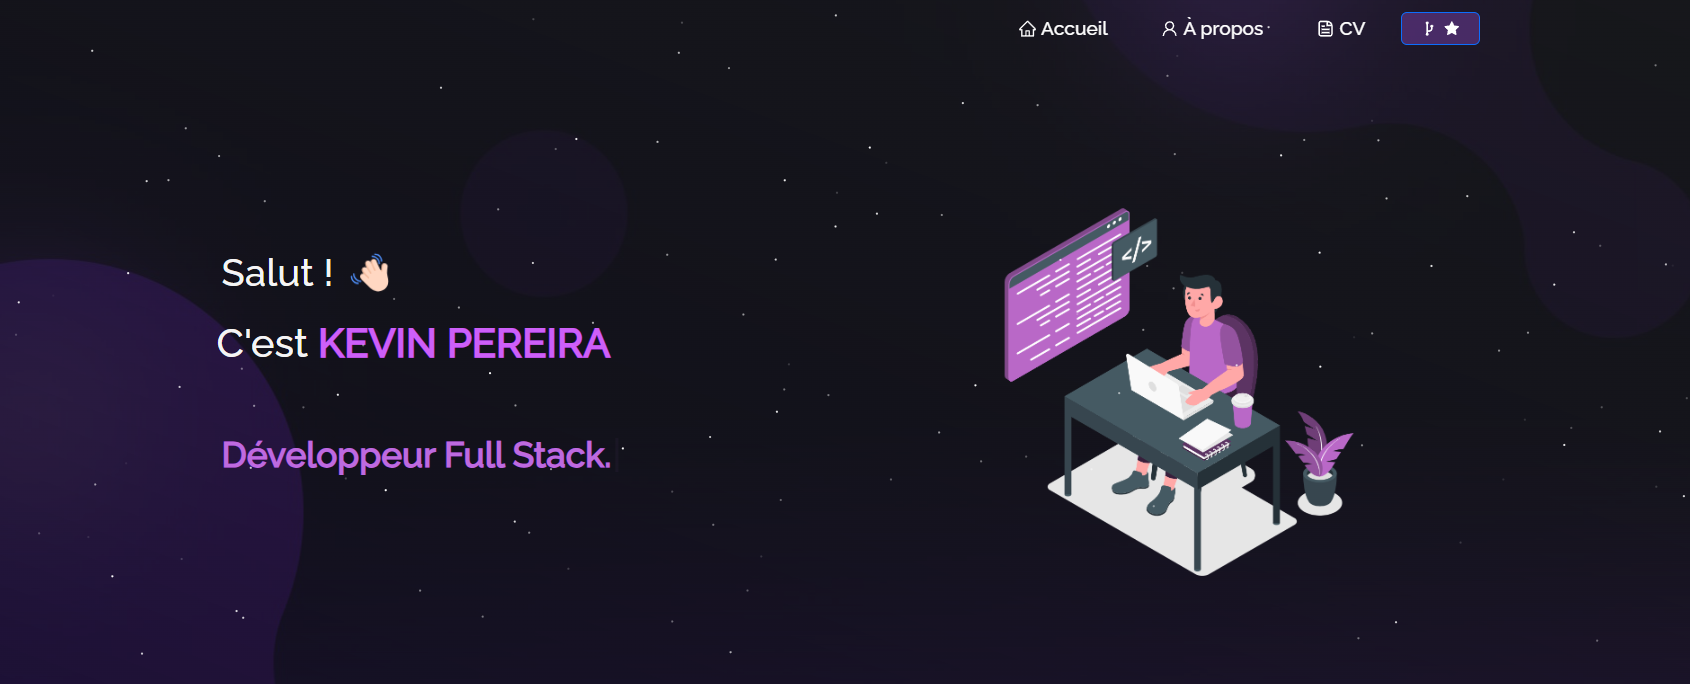
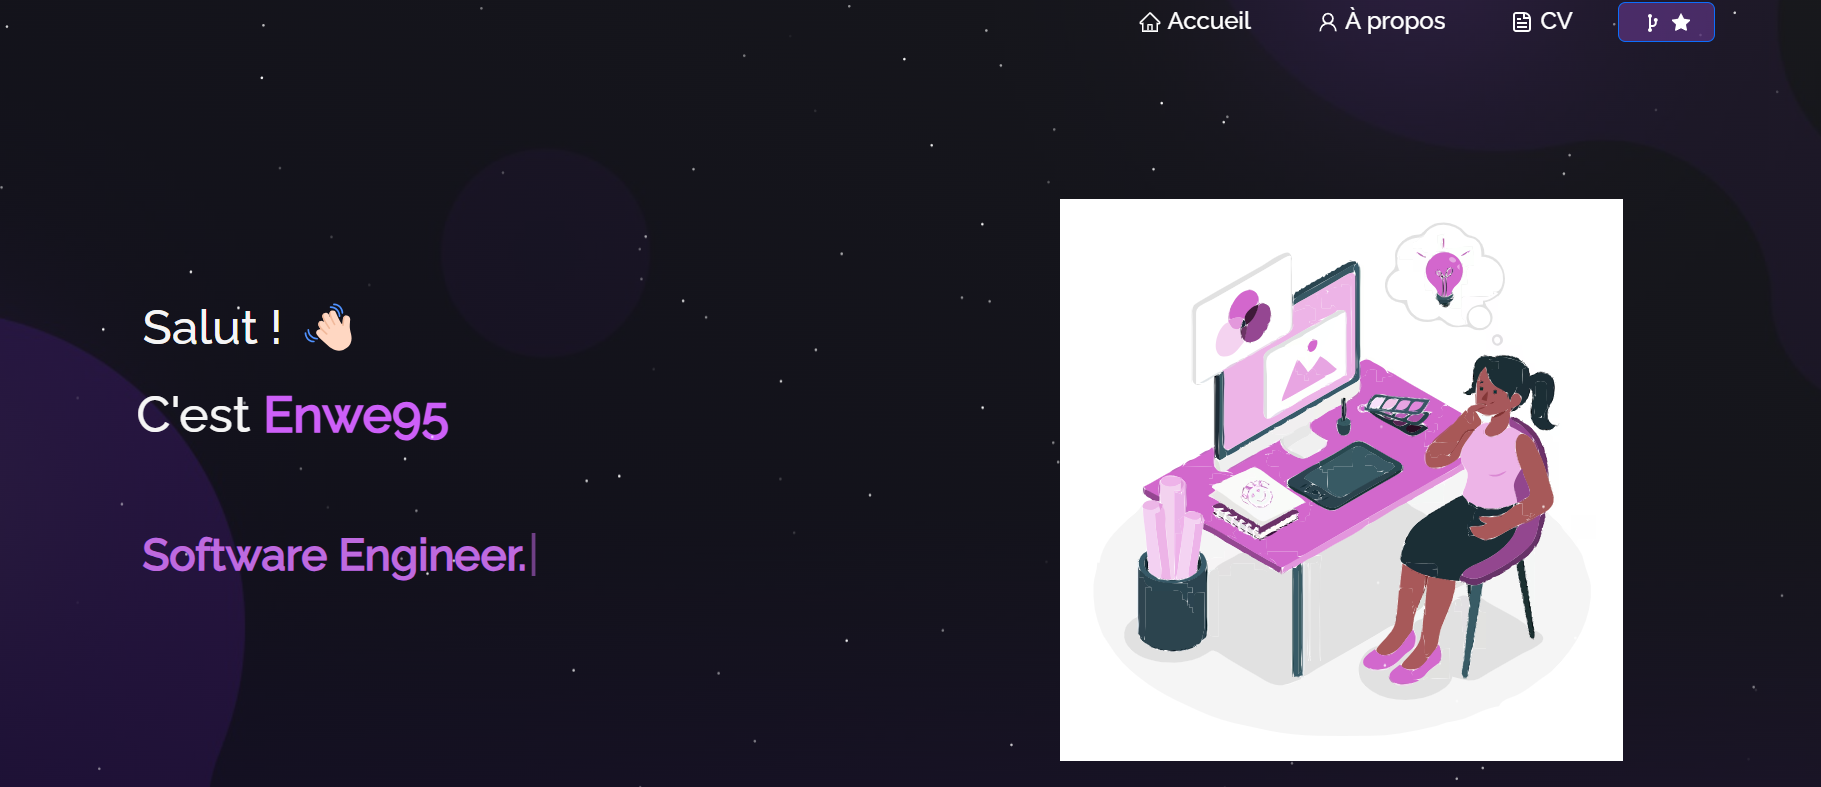
3rd commit

Changed region(s): [[0.5538, 0.2456, 0.8923, 0.9825], [0.0, 0.3684, 0.3692, 0.9518], [0.5846, 0.0, 0.9538, 0.0921]]

diff --git a/README.md b/README.md
@@ -1,6 +1,6 @@
 <h2 align="center">
   Portfolio<br/>
-  <a href="https://cvkevin.vercel.app/" target="_blank">kev.tech</a>
+  <a href="https://cvenwe95.vercel.app/" target="_blank">kev.tech</a>
 </h2>
 <div align="center">
   <img alt="Demo" src="./Images/readme-img.png" />
@@ -17,7 +17,7 @@ Vous pouvez dupliquer ce dépôt pour le modifier et l’adapter selon vos besoi
 
 ## Technologies utilisées
 
-Mon portfolio personnel [cvkevin.vercel.app](https://cvkevin.vercel.app/), qui met en avant certains de mes projets GitHub, ainsi que mon CV et mes compétences techniques.
+Mon portfolio personnel [cvenwe95.vercel.app](https://cvenwe95.vercel.app/), qui met en avant certains de mes projets GitHub, ainsi que mon CV et mes compétences techniques.
 
 Ce projet a été développé avec les technologies suivantes :
 
